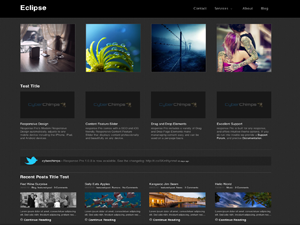
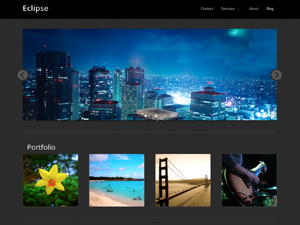
slider default, css tweaks

diff --git a/core/css/foundation.css b/core/css/foundation.css
@@ -590,7 +590,7 @@
 /* PUT IN YOUR SLIDER ID AND SIZE TO MAKE LOAD BEAUTIFULLY
    ================================================== */
    
-#orbitDemo { background: url(orbit/spinner.gif) no-repeat center center #3c3c3c; height: 430px; margin-top: 25px;  }
+#orbitDemo { background: url(orbit/spinner.gif) no-repeat center center #3c3c3c; height: 430px; margin-top: 45px;  }
 #orbitDemo.orbit { height: 380px; }
 #orbitDemo img, #orbitDemo div { display: none; }
 #orbitDemo.orbit img, #orbitDemo.orbit div { display: block;}

diff --git a/includes/classy-options-init.php b/includes/classy-options-init.php
@@ -113,11 +113,11 @@ $options
 			->multicheck($themeslug."_hide_byline", "Post Byline Elements", array( 'options' => array($themeslug."_hide_author" => "Author" , $themeslug."_hide_categories" => "Categories", $themeslug."_hide_date" => "Date", $themeslug."_hide_comments" => "Comments",  $themeslug."_hide_tags" => "Tags"), 'default' => array( $themeslug."_hide_tags" => true, $themeslug."_hide_author" => true, $themeslug."_hide_date" => true, $themeslug."_hide_comments" => true, $themeslug."_hide_categories" => true ) ) )
 		->subsection_end()
 		->subsection("Feature Slider")
-			->upload($themeslug."_blog_slide_one_image", "Slide One Image", array('default' => array('url' => TEMPLATE_URL . '/images/responseslider.jpg')))
+			->upload($themeslug."_blog_slide_one_image", "Slide One Image", array('default' => array('url' => TEMPLATE_URL . '/images/sliderdefault.jpg')))
 			->text($themeslug."_blog_slide_one_url", "Slide One Link", array('default' => 'http://cyberchimps.com'))
-			->upload($themeslug."_blog_slide_two_image", "Slide Two", array('default' => array('url' => TEMPLATE_URL . '/images/responseslider.jpg')))
+			->upload($themeslug."_blog_slide_two_image", "Slide Two", array('default' => array('url' => TEMPLATE_URL . '/images/sliderdefault.jpg')))
 			->text($themeslug."_blog_slide_two_url", "Slide Two Link", array('default' => 'http://cyberchimps.com'))
-			->upload($themeslug."_blog_slide_three_image", "Slide Three", array('default' => array('url' => TEMPLATE_URL . '/images/responseslider.jpg')))
+			->upload($themeslug."_blog_slide_three_image", "Slide Three", array('default' => array('url' => TEMPLATE_URL . '/images/sliderdefault.jpg')))
 			->text($themeslug."_blog_slide_three_url", "Slide Three Link", array('default' => 'http://cyberchimps.com'))
 		->subsection_end()
 		->subsection("Twtterbar Options")

diff --git a/includes/meta-box.php b/includes/meta-box.php
@@ -52,11 +52,11 @@ function initialize_the_meta_boxes() {
 				))
 			->pagehelp('', 'Need Help?', '')
 		->tab($themenamefull." Slider Options")
-			->single_image($themeslug.'_page_slide_one_image', 'Slide One Image', '', array('std' =>  TEMPLATE_URL . '/images/responseslider.jpg'))
+			->single_image($themeslug.'_page_slide_one_image', 'Slide One Image', '', array('std' =>  TEMPLATE_URL . '/images/sliderdefault.jpg'))
 			->text($themeslug.'_page_slide_one_url', 'Slide One Link', '', array('std' => 'http://cyberchimps.com'))
-			->single_image($themeslug.'_page_slide_two_image', 'Slide Two Image', '', array('std' =>  TEMPLATE_URL . '/images/responseslider.jpg'))
+			->single_image($themeslug.'_page_slide_two_image', 'Slide Two Image', '', array('std' =>  TEMPLATE_URL . '/images/sliderdefault.jpg'))
 			->text($themeslug.'_page_slide_two_url', 'Slide Two Link', '', array('std' => 'http://cyberchimps.com'))
-			->single_image($themeslug.'_page_slide_three_image', 'Slide Three Image', '', array('std' =>  TEMPLATE_URL . '/images/responseslider.jpg'))
+			->single_image($themeslug.'_page_slide_three_image', 'Slide Three Image', '', array('std' =>  TEMPLATE_URL . '/images/sliderdefault.jpg'))
 			->text($themeslug.'_page_slide_three_url', 'Slide Three Link', '', array('std' => 'http://cyberchimps.com'))
 		->tab("Recent Posts Options")
 			->checkbox($themeslug.'_recent_posts_title_toggle', 'Title', '')
